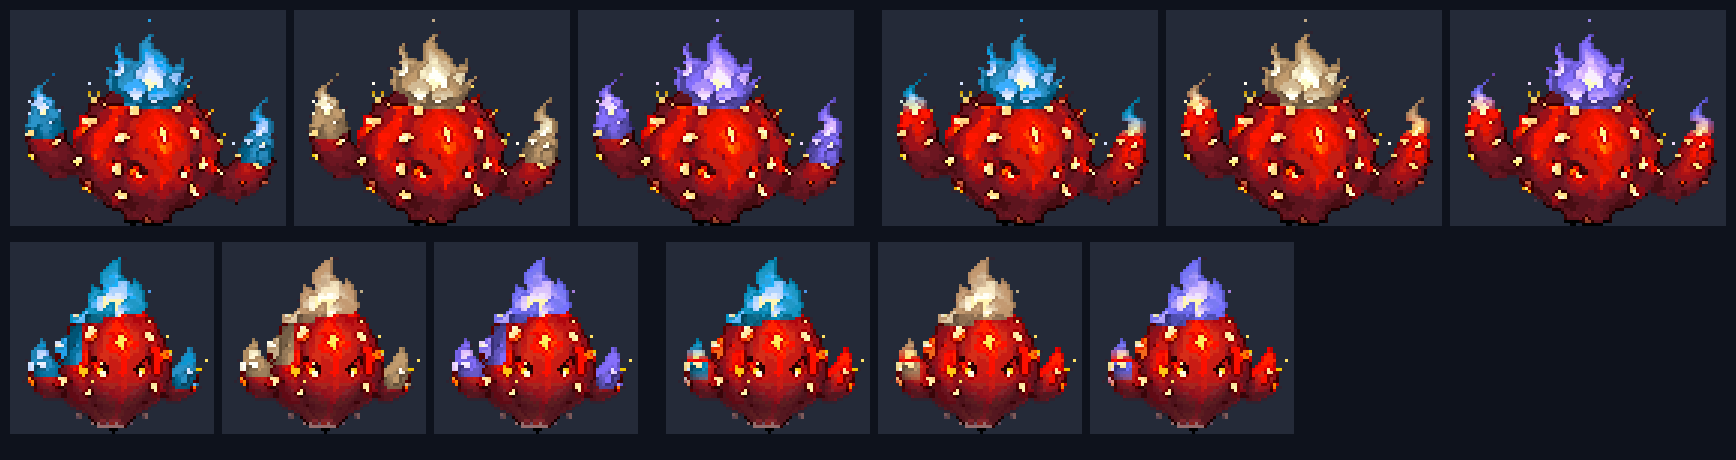
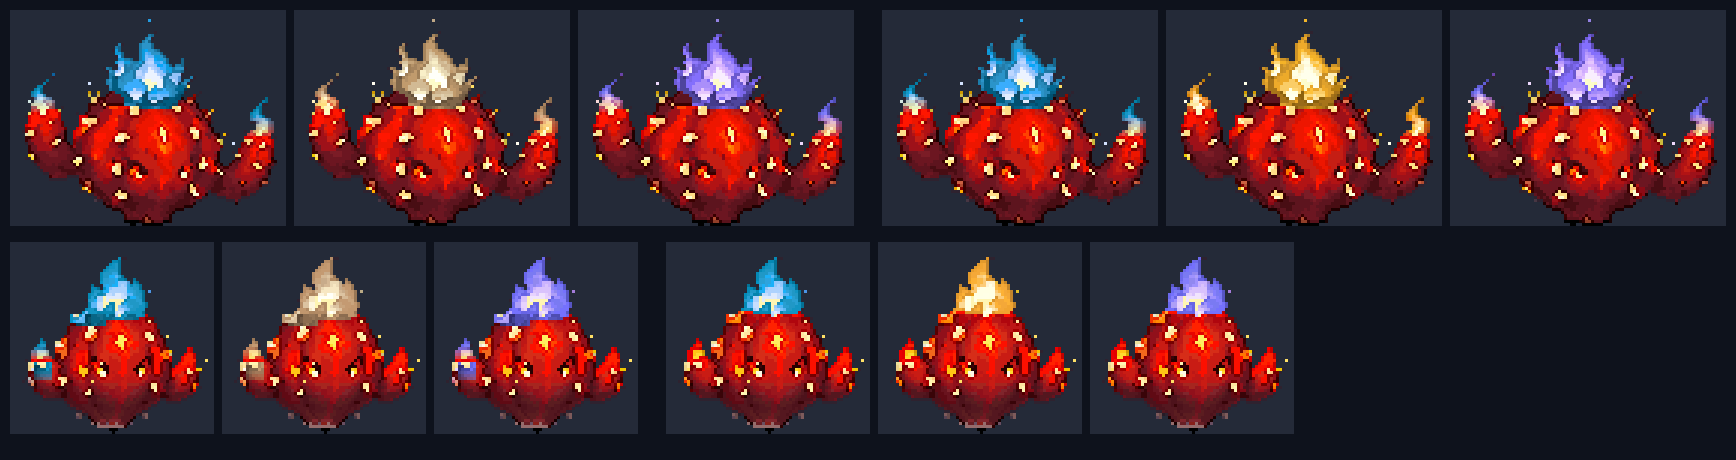
fix: 엠버캑터 색 변종 — 자람 왼팔 · 머리 꼭대기는 그대로, B 갈색 불 → 노란 불
- 자람: 팔 끝 불꽃 띠 뺌, 머리 불꽃은 가운데 속불 조각만 · 밝은 빨강으로만 넓힘(머리 왼쪽 위 주황 빛이 불꽃으로 잡히던 것)
- B: 노란 불(색상 92 · 밝기 +0.15)

diff --git a/v2/src/art/shinyRules.js b/v2/src/art/shinyRules.js
@@ -8,7 +8,7 @@ export const SHINY_RULES = {
   flower_wind: { pick: 'A', A: [{ h: [275,340], to: 235 }], B: [{ h: [275,340], to: 350, ck: 0.55, dl: 0.08 }], C: [{ h: [275,340], to: 90, dl: 0.17 }] },
   spark: { pick: 'A', A: [{ h: [75,115], to: 255, ck: 0.45, l: [0.6,1.01] }], B: [{ h: [75,115], to: 350, ck: 0.9, l: [0.6,1.01] }], C: [{ h: [75,115], to: 48, l: [0.6,1.01] }] },
   vine_water: { pick: 'A', A: [{ h: [95,182], to: 88, hs: 0.3, dl: 0.04 }], B: [{ h: [95,182], to: 40, hs: 0.3 }], C: [{ h: [195,265], to: 250, ck: 0.2, dl: 0.15 }] },
-  cactus_fire: { pick: 'A', A: [{ h: [20,110], to: 250, l: [0.58,1.01], c: 0.08, hs: 0.4, part: {"at":[[0,0,1,0.38]],"min":0.12,"air":0.8,"grow":2,"up":3,"gh":[10,60],"gl":[0.3,1.01],"gc":0.12}, ck: 0.8 }, { h: [45,115], to: 250, l: [0.6,1.01], c: 0.1, hs: 0.4, part: {"at":[[0,0,0.18,1],[0.82,0,1,1]],"min":0.3,"up":6,"taper":0.4,"gh":[10,115],"gl":[0.3,1.01],"gc":0.12}, ck: 0.8 }, { h: [10,60], to: 250, l: [0.3,0.75], c: 0.12, hs: 0.4, part: {"at":[],"air":0.75}, ck: 0.8 }], B: [{ h: [20,110], to: 85, l: [0.58,1.01], c: 0.08, hs: 0.4, part: {"at":[[0,0,1,0.38]],"min":0.12,"air":0.8,"grow":2,"up":3,"gh":[10,60],"gl":[0.3,1.01],"gc":0.12}, ck: 0.3, dl: 0.08 }, { h: [45,115], to: 85, l: [0.6,1.01], c: 0.1, hs: 0.4, part: {"at":[[0,0,0.18,1],[0.82,0,1,1]],"min":0.3,"up":6,"taper":0.4,"gh":[10,115],"gl":[0.3,1.01],"gc":0.12}, ck: 0.3, dl: 0.08 }, { h: [10,60], to: 85, l: [0.3,0.75], c: 0.12, hs: 0.4, part: {"at":[],"air":0.75}, ck: 0.3, dl: 0.08 }], C: [{ h: [20,110], to: 300, l: [0.58,1.01], c: 0.08, hs: 0.4, part: {"at":[[0,0,1,0.38]],"min":0.12,"air":0.8,"grow":2,"up":3,"gh":[10,60],"gl":[0.3,1.01],"gc":0.12}, ck: 0.8 }, { h: [45,115], to: 300, l: [0.6,1.01], c: 0.1, hs: 0.4, part: {"at":[[0,0,0.18,1],[0.82,0,1,1]],"min":0.3,"up":6,"taper":0.4,"gh":[10,115],"gl":[0.3,1.01],"gc":0.12}, ck: 0.8 }, { h: [10,60], to: 300, l: [0.3,0.75], c: 0.12, hs: 0.4, part: {"at":[],"air":0.75}, ck: 0.8 }], young: { A: [{ h: [45,115], to: 250, l: [0.6,1.01], c: 0.1, hs: 0.4, part: {"at":[[0,0,1,0.45]],"min":0.15,"up":6,"taper":0.65,"gh":[10,115],"gl":[0.3,1.01],"gc":0.12}, ck: 0.8 }, { h: [10,60], to: 250, l: [0.3,0.75], c: 0.12, hs: 0.4, part: {"at":[],"air":0.75}, ck: 0.8 }], B: [{ h: [45,115], to: 85, l: [0.6,1.01], c: 0.1, hs: 0.4, part: {"at":[[0,0,1,0.45]],"min":0.15,"up":6,"taper":0.65,"gh":[10,115],"gl":[0.3,1.01],"gc":0.12}, ck: 0.3, dl: 0.08 }, { h: [10,60], to: 85, l: [0.3,0.75], c: 0.12, hs: 0.4, part: {"at":[],"air":0.75}, ck: 0.3, dl: 0.08 }], C: [{ h: [45,115], to: 300, l: [0.6,1.01], c: 0.1, hs: 0.4, part: {"at":[[0,0,1,0.45]],"min":0.15,"up":6,"taper":0.65,"gh":[10,115],"gl":[0.3,1.01],"gc":0.12}, ck: 0.8 }, { h: [10,60], to: 300, l: [0.3,0.75], c: 0.12, hs: 0.4, part: {"at":[],"air":0.75}, ck: 0.8 }] }, teen: { A: [{ h: [45,115], to: 250, l: [0.6,1.01], c: 0.1, hs: 0.4, part: {"at":[[0,0,1,0.4]],"min":0.15,"grow":1,"up":6,"gh":[10,115],"gl":[0.3,1.01],"gc":0.12,"fill":[[35,115,0.6,1.01,0.1]]}, ck: 0.8 }, { h: [45,115], to: 250, l: [0.6,1.01], c: 0.1, hs: 0.4, part: {"at":[[0,0,0.15,1],[0.85,0,1,1]],"min":0.3,"up":6,"taper":0.4,"gh":[10,115],"gl":[0.3,1.01],"gc":0.12}, ck: 0.8 }, { h: [10,60], to: 250, l: [0.3,0.75], c: 0.12, hs: 0.4, part: {"at":[],"air":0.75}, ck: 0.8 }], B: [{ h: [45,115], to: 85, l: [0.6,1.01], c: 0.1, hs: 0.4, part: {"at":[[0,0,1,0.4]],"min":0.15,"grow":1,"up":6,"gh":[10,115],"gl":[0.3,1.01],"gc":0.12,"fill":[[35,115,0.6,1.01,0.1]]}, ck: 0.3, dl: 0.08 }, { h: [45,115], to: 85, l: [0.6,1.01], c: 0.1, hs: 0.4, part: {"at":[[0,0,0.15,1],[0.85,0,1,1]],"min":0.3,"up":6,"taper":0.4,"gh":[10,115],"gl":[0.3,1.01],"gc":0.12}, ck: 0.3, dl: 0.08 }, { h: [10,60], to: 85, l: [0.3,0.75], c: 0.12, hs: 0.4, part: {"at":[],"air":0.75}, ck: 0.3, dl: 0.08 }], C: [{ h: [45,115], to: 300, l: [0.6,1.01], c: 0.1, hs: 0.4, part: {"at":[[0,0,1,0.4]],"min":0.15,"grow":1,"up":6,"gh":[10,115],"gl":[0.3,1.01],"gc":0.12,"fill":[[35,115,0.6,1.01,0.1]]}, ck: 0.8 }, { h: [45,115], to: 300, l: [0.6,1.01], c: 0.1, hs: 0.4, part: {"at":[[0,0,0.15,1],[0.85,0,1,1]],"min":0.3,"up":6,"taper":0.4,"gh":[10,115],"gl":[0.3,1.01],"gc":0.12}, ck: 0.8 }, { h: [10,60], to: 300, l: [0.3,0.75], c: 0.12, hs: 0.4, part: {"at":[],"air":0.75}, ck: 0.8 }] }, small: { A: [{ h: [45,115], to: 250, l: [0.6,1.01], c: 0.1, hs: 0.4, part: {"at":[[0,0,1,0.36]],"min":0.3,"air":0.8,"up":3,"gh":[10,115],"gl":[0.3,1.01],"gc":0.12}, ck: 0.8 }, { h: [45,115], to: 250, l: [0.6,1.01], c: 0.1, hs: 0.4, part: {"at":[[0,0,0.18,1],[0.82,0,1,1]],"min":0.3,"up":6,"taper":0.4,"gh":[10,115],"gl":[0.3,1.01],"gc":0.12}, ck: 0.8 }, { h: [10,60], to: 250, l: [0.3,0.75], c: 0.12, hs: 0.4, part: {"at":[],"air":0.75}, ck: 0.8 }], B: [{ h: [45,115], to: 85, l: [0.6,1.01], c: 0.1, hs: 0.4, part: {"at":[[0,0,1,0.36]],"min":0.3,"air":0.8,"up":3,"gh":[10,115],"gl":[0.3,1.01],"gc":0.12}, ck: 0.3, dl: 0.08 }, { h: [45,115], to: 85, l: [0.6,1.01], c: 0.1, hs: 0.4, part: {"at":[[0,0,0.18,1],[0.82,0,1,1]],"min":0.3,"up":6,"taper":0.4,"gh":[10,115],"gl":[0.3,1.01],"gc":0.12}, ck: 0.3, dl: 0.08 }, { h: [10,60], to: 85, l: [0.3,0.75], c: 0.12, hs: 0.4, part: {"at":[],"air":0.75}, ck: 0.3, dl: 0.08 }], C: [{ h: [45,115], to: 300, l: [0.6,1.01], c: 0.1, hs: 0.4, part: {"at":[[0,0,1,0.36]],"min":0.3,"air":0.8,"up":3,"gh":[10,115],"gl":[0.3,1.01],"gc":0.12}, ck: 0.8 }, { h: [45,115], to: 300, l: [0.6,1.01], c: 0.1, hs: 0.4, part: {"at":[[0,0,0.18,1],[0.82,0,1,1]],"min":0.3,"up":6,"taper":0.4,"gh":[10,115],"gl":[0.3,1.01],"gc":0.12}, ck: 0.8 }, { h: [10,60], to: 300, l: [0.3,0.75], c: 0.12, hs: 0.4, part: {"at":[],"air":0.75}, ck: 0.8 }] } },   // 특징 5~45° 85% · 손 규칙 A B C young teen small
+  cactus_fire: { pick: 'A', A: [{ h: [20,110], to: 250, l: [0.58,1.01], c: 0.08, hs: 0.4, part: {"at":[[0,0,1,0.38]],"min":0.12,"air":0.8,"grow":2,"up":3,"gh":[10,60],"gl":[0.3,1.01],"gc":0.12}, ck: 0.8 }, { h: [45,115], to: 250, l: [0.6,1.01], c: 0.1, hs: 0.4, part: {"at":[[0,0,0.18,1],[0.82,0,1,1]],"min":0.3,"up":6,"taper":0.4,"gh":[10,115],"gl":[0.3,1.01],"gc":0.12}, ck: 0.8 }, { h: [10,60], to: 250, l: [0.3,0.75], c: 0.12, hs: 0.4, part: {"at":[],"air":0.75}, ck: 0.8 }], B: [{ h: [20,110], to: 92, l: [0.58,1.01], c: 0.08, hs: 0.4, part: {"at":[[0,0,1,0.38]],"min":0.12,"air":0.8,"grow":2,"up":3,"gh":[10,60],"gl":[0.3,1.01],"gc":0.12}, ck: 1, dl: 0.15 }, { h: [45,115], to: 92, l: [0.6,1.01], c: 0.1, hs: 0.4, part: {"at":[[0,0,0.18,1],[0.82,0,1,1]],"min":0.3,"up":6,"taper":0.4,"gh":[10,115],"gl":[0.3,1.01],"gc":0.12}, ck: 1, dl: 0.15 }, { h: [10,60], to: 92, l: [0.3,0.75], c: 0.12, hs: 0.4, part: {"at":[],"air":0.75}, ck: 1, dl: 0.15 }], C: [{ h: [20,110], to: 300, l: [0.58,1.01], c: 0.08, hs: 0.4, part: {"at":[[0,0,1,0.38]],"min":0.12,"air":0.8,"grow":2,"up":3,"gh":[10,60],"gl":[0.3,1.01],"gc":0.12}, ck: 0.8 }, { h: [45,115], to: 300, l: [0.6,1.01], c: 0.1, hs: 0.4, part: {"at":[[0,0,0.18,1],[0.82,0,1,1]],"min":0.3,"up":6,"taper":0.4,"gh":[10,115],"gl":[0.3,1.01],"gc":0.12}, ck: 0.8 }, { h: [10,60], to: 300, l: [0.3,0.75], c: 0.12, hs: 0.4, part: {"at":[],"air":0.75}, ck: 0.8 }], young: { A: [{ h: [45,115], to: 250, l: [0.6,1.01], c: 0.1, hs: 0.4, part: {"at":[[0,0,1,0.45]],"min":0.15,"up":6,"taper":0.65,"gh":[10,115],"gl":[0.3,1.01],"gc":0.12}, ck: 0.8 }, { h: [10,60], to: 250, l: [0.3,0.75], c: 0.12, hs: 0.4, part: {"at":[],"air":0.75}, ck: 0.8 }], B: [{ h: [45,115], to: 92, l: [0.6,1.01], c: 0.1, hs: 0.4, part: {"at":[[0,0,1,0.45]],"min":0.15,"up":6,"taper":0.65,"gh":[10,115],"gl":[0.3,1.01],"gc":0.12}, ck: 1, dl: 0.15 }, { h: [10,60], to: 92, l: [0.3,0.75], c: 0.12, hs: 0.4, part: {"at":[],"air":0.75}, ck: 1, dl: 0.15 }], C: [{ h: [45,115], to: 300, l: [0.6,1.01], c: 0.1, hs: 0.4, part: {"at":[[0,0,1,0.45]],"min":0.15,"up":6,"taper":0.65,"gh":[10,115],"gl":[0.3,1.01],"gc":0.12}, ck: 0.8 }, { h: [10,60], to: 300, l: [0.3,0.75], c: 0.12, hs: 0.4, part: {"at":[],"air":0.75}, ck: 0.8 }] }, teen: { A: [{ h: [45,115], to: 250, l: [0.6,1.01], c: 0.1, hs: 0.4, part: {"at":[[0.38,0,0.66,0.33]],"up":6,"g":[[20,45,0.5,1.01,0.18]],"fill":[[35,115,0.6,1.01,0.1]]}, ck: 0.8 }, { h: [10,60], to: 250, l: [0.3,0.75], c: 0.12, hs: 0.4, part: {"at":[],"air":0.75}, ck: 0.8 }], B: [{ h: [45,115], to: 92, l: [0.6,1.01], c: 0.1, hs: 0.4, part: {"at":[[0.38,0,0.66,0.33]],"up":6,"g":[[20,45,0.5,1.01,0.18]],"fill":[[35,115,0.6,1.01,0.1]]}, ck: 1, dl: 0.15 }, { h: [10,60], to: 92, l: [0.3,0.75], c: 0.12, hs: 0.4, part: {"at":[],"air":0.75}, ck: 1, dl: 0.15 }], C: [{ h: [45,115], to: 300, l: [0.6,1.01], c: 0.1, hs: 0.4, part: {"at":[[0.38,0,0.66,0.33]],"up":6,"g":[[20,45,0.5,1.01,0.18]],"fill":[[35,115,0.6,1.01,0.1]]}, ck: 0.8 }, { h: [10,60], to: 300, l: [0.3,0.75], c: 0.12, hs: 0.4, part: {"at":[],"air":0.75}, ck: 0.8 }] }, small: { A: [{ h: [45,115], to: 250, l: [0.6,1.01], c: 0.1, hs: 0.4, part: {"at":[[0,0,1,0.36]],"min":0.3,"air":0.8,"up":3,"gh":[10,115],"gl":[0.3,1.01],"gc":0.12}, ck: 0.8 }, { h: [45,115], to: 250, l: [0.6,1.01], c: 0.1, hs: 0.4, part: {"at":[[0,0,0.18,1],[0.82,0,1,1]],"min":0.3,"up":6,"taper":0.4,"gh":[10,115],"gl":[0.3,1.01],"gc":0.12}, ck: 0.8 }, { h: [10,60], to: 250, l: [0.3,0.75], c: 0.12, hs: 0.4, part: {"at":[],"air":0.75}, ck: 0.8 }], B: [{ h: [45,115], to: 92, l: [0.6,1.01], c: 0.1, hs: 0.4, part: {"at":[[0,0,1,0.36]],"min":0.3,"air":0.8,"up":3,"gh":[10,115],"gl":[0.3,1.01],"gc":0.12}, ck: 1, dl: 0.15 }, { h: [45,115], to: 92, l: [0.6,1.01], c: 0.1, hs: 0.4, part: {"at":[[0,0,0.18,1],[0.82,0,1,1]],"min":0.3,"up":6,"taper":0.4,"gh":[10,115],"gl":[0.3,1.01],"gc":0.12}, ck: 1, dl: 0.15 }, { h: [10,60], to: 92, l: [0.3,0.75], c: 0.12, hs: 0.4, part: {"at":[],"air":0.75}, ck: 1, dl: 0.15 }], C: [{ h: [45,115], to: 300, l: [0.6,1.01], c: 0.1, hs: 0.4, part: {"at":[[0,0,1,0.36]],"min":0.3,"air":0.8,"up":3,"gh":[10,115],"gl":[0.3,1.01],"gc":0.12}, ck: 0.8 }, { h: [45,115], to: 300, l: [0.6,1.01], c: 0.1, hs: 0.4, part: {"at":[[0,0,0.18,1],[0.82,0,1,1]],"min":0.3,"up":6,"taper":0.4,"gh":[10,115],"gl":[0.3,1.01],"gc":0.12}, ck: 0.8 }, { h: [10,60], to: 300, l: [0.3,0.75], c: 0.12, hs: 0.4, part: {"at":[],"air":0.75}, ck: 0.8 }] } },   // 특징 5~45° 85% · 손 규칙 A B C young teen small
   gaia: { pick: 'A', A: [{ h: [160,220], to: 300, c: 0.04 }], B: [{ h: [160,220], to: 355, c: 0.04 }], C: [{ h: [160,220], to: 88, c: 0.04, dl: 0.12 }] },
   flower_fire: { pick: 'A', A: [{ h: [5,45], to: 262 }], B: [{ h: [5,45], to: 305 }], C: [{ h: [5,45], to: 92, dl: 0.17 }] },
   cactus_wind: { pick: 'B', A: [{ h: [70,175], to: 168, hs: 0.4, l: [0.24,0.9], ck: 0.7 }], B: [{ h: [70,175], to: 88, hs: 0.4, l: [0.24,0.9], dl: 0.06 }], C: [{ h: [70,175], to: 330, hs: 0.4, l: [0.24,0.9], ck: 0.55 }] },

diff --git a/docs/superpowers/specs/2026-10-16-v2-mvp-design.md b/docs/superpowers/specs/2026-10-16-v2-mvp-design.md
@@ -10,7 +10,7 @@
 - **10-22 아침:** 사용자 결정 = 카드는 끼운 식물에 귀속(CHANGELOG 191 — 가져오기 뺌, 일반 식물도 패시브 보관 셋, 보관에서 버리기 = 팔 값). 사용자 ‘올릴 때 버그나 데이터 손실이 없도록’ → 올리기 전 안전 점검(192 — `tools/test/prodcheck.mjs`로 친구 서버 저장 백업 + 새 코드로 계정마다 미리 돌려 보기 = 문제 없음, `SAVE_VER` 2로 올린 뒤 원본 자동 보관, 되돌리기 판 `f4b9fc9b`). **사용자 ‘안전 점검대로 친구 서버에 올려’ → 올림(CHANGELOG 193, 판 `4c2dabdd`).**
 - **10-22 올린 뒤(오후에 함께 올림 — CHANGELOG 201):** 바람 다시(CHANGELOG 194 초승달 줄기 · 195 언덕 타기 + 롤러코스터 고리 — 사용자 ‘너무 일자로 빙빙돌아’ → ‘좀더 꿀렁하게 웨이브를 타는 느낌 · 롤로코스터처럼 한바퀴’) · 배너 = 프로필 홀로그램 창 디자인 열둘(196 — 사용자 정정 ‘아이콘의 테두리가 아니야. 홀로그램창의 디자인을 배너라고 말한거야’, 188의 색 띠 · 아이콘 테 방식은 버림) · 종자 가방 = 카드 · 정렬(197). 시험 전부 통과.
 - **10-22 낮(오후에 함께 올림):** 종자 · 상점 물건 그림 = 코덱스 디자인(종자는 식물마다 다른 마흔다섯 · 속성 대신 그림 일곱 · 물건 아홉) · 별에 따른 종자 차이(빛 효과 + 값 별 하나 +25%) · 종자 가방 = 단추 없는 카드 · 누르면 펼침 · 꾹 고르기 여러 개 팔기(`sellSeeds`) · 특별 표시는 그림을 가리지 않게(CHANGELOG 198). 사용자가 ‘그 외 대충 그린 아이콘 중 바꿀 것 추천’ 요청 → 추천 일곱 묶음 → ‘전부해봐’ → 하단 탭 · 홈 단추 · 돈 · 보석 · 속성 · 종류 · 능력치 · 전투 상태 열여덟 · 레벨업 상자(뚜껑이 들리는 코덱스 상자) · 탐사 행성 열하나 + 물건 그림 재활용(물 · 비료 단추 · 결과 보상 · 연료 · 카드 꾸러미)을 코덱스 디자인 도트로(CHANGELOG 199 — 11칸으로 줄이면 뭉개지는 여섯은 1배 자리만 손그림 유지). 이어서 사용자 ‘아이콘 비슷한게 있는데 … 엑셀로 작업중인 변경될 예정인걸 기준으로’ → 효과 아이콘을 엑셀 v10 효과 하나에 하나로 다시(CHANGELOG 200 · 짝 표 `specs/2026-10-22-v2-effect-icons.md` — 능력치 강화 · 약화 = 능력치 아이콘 + 화살표, 이름은 엑셀 적용 때 바꿈).
-- **10-22 늦은 오후(아직 안 올림):** 사용자 ‘다음 작업 뭐 있을까 스킬 구상 말고’ → 남은 일 목록(색 변종 · 3:3 햇빛 · 접목 카드 · 눈 다시 · 얼굴 사진 · 영양제 · 공지 팝업 · 순위표 등)을 드림 → ‘색 변종 그림부터’ → 몸 색이 진짜로 바뀜(CHANGELOG 202 — 종마다 후보 A · B · C, 클로드 추천을 넣어 둠). 사용자가 검토판(`tools/pixel/big/out/shiny/board_1~5.png`)에서 종마다 고르면 `tools/pixel/big/shiny.mjs PICK`만 바꿈. 확률(1/64 → 1/500쯤)은 확인 전. 이어서 사용자 ‘페탈로즈 c의 풀색이 너무 징그러워 · 자연스러운 부분에 자연스럽게 · 쨍하게 전체색이 바뀐게 어색해’ → 잎은 자연에 있는 색만 · 꽃 · 갓 · 옷처럼 자연스러운 부분 위주 · 채도 낮춤으로 다시(CHANGELOG 203). 다시 열한 종 지적(‘몸 전체를 덮거나 · 너무 쨍하거나 · 색이 안 어울리는’) → 한 부분만(불꽃 · 결정 · 입 · 배 · 탈 · 깃 · 투구 · 갑옷 · 갓 · 목도리) + 위치 조건 box · 초롱바인 원래 그림 등불을 빨강이 위로(CHANGELOG 204 — 다시 내보내면 `fix_lantern.mjs`). 다시 다섯 종 지적(엠버캑터 불 테두리 · 불 안쪽 일자 잘림 · 드레이크캑터 가시까지 바뀜 · 초롱바인 달라진 게 안 보임 · 등불 파랑 아래 일자 잘림 · 글라디캑터 깃 바깥 테두리 · 마이너캡 갓 그늘 · 얼굴까지) → 네모 대신 이어진 덩어리로 고르기(`part`) · 단계별 규칙(어린 · 자람 · 작은 그림) · 초롱바인 덩굴 색 바꿈 · 등불은 천 덩어리째 맞바꿈(CHANGELOG 205, 술은 사용자 ‘괜찮네’로 그대로). 이어서 ‘앰버캑터 성장체+성체의 팔 부분도 염색 … 불만 염색하거나 아니면 아예 빼’ → 팔은 그대로 · 팔 끝 불꽃만(CHANGELOG 206). **사용자 검토 대기:** 다섯 종 전 · 뒤 `tools/pixel/big/out/shiny/fix5_before_after.png` · 엠버캑터 팔 전 · 뒤 `fix_ember_arms.png` · 어린 · 자람 `fix5_stages.png`.
+- **10-22 늦은 오후(아직 안 올림):** 사용자 ‘다음 작업 뭐 있을까 스킬 구상 말고’ → 남은 일 목록(색 변종 · 3:3 햇빛 · 접목 카드 · 눈 다시 · 얼굴 사진 · 영양제 · 공지 팝업 · 순위표 등)을 드림 → ‘색 변종 그림부터’ → 몸 색이 진짜로 바뀜(CHANGELOG 202 — 종마다 후보 A · B · C, 클로드 추천을 넣어 둠). 사용자가 검토판(`tools/pixel/big/out/shiny/board_1~5.png`)에서 종마다 고르면 `tools/pixel/big/shiny.mjs PICK`만 바꿈. 확률(1/64 → 1/500쯤)은 확인 전. 이어서 사용자 ‘페탈로즈 c의 풀색이 너무 징그러워 · 자연스러운 부분에 자연스럽게 · 쨍하게 전체색이 바뀐게 어색해’ → 잎은 자연에 있는 색만 · 꽃 · 갓 · 옷처럼 자연스러운 부분 위주 · 채도 낮춤으로 다시(CHANGELOG 203). 다시 열한 종 지적(‘몸 전체를 덮거나 · 너무 쨍하거나 · 색이 안 어울리는’) → 한 부분만(불꽃 · 결정 · 입 · 배 · 탈 · 깃 · 투구 · 갑옷 · 갓 · 목도리) + 위치 조건 box · 초롱바인 원래 그림 등불을 빨강이 위로(CHANGELOG 204 — 다시 내보내면 `fix_lantern.mjs`). 다시 다섯 종 지적(엠버캑터 불 테두리 · 불 안쪽 일자 잘림 · 드레이크캑터 가시까지 바뀜 · 초롱바인 달라진 게 안 보임 · 등불 파랑 아래 일자 잘림 · 글라디캑터 깃 바깥 테두리 · 마이너캡 갓 그늘 · 얼굴까지) → 네모 대신 이어진 덩어리로 고르기(`part`) · 단계별 규칙(어린 · 자람 · 작은 그림) · 초롱바인 덩굴 색 바꿈 · 등불은 천 덩어리째 맞바꿈(CHANGELOG 205, 술은 사용자 ‘괜찮네’로 그대로). 이어서 ‘앰버캑터 성장체+성체의 팔 부분도 염색 … 불만 염색하거나 아니면 아예 빼’ → 팔은 그대로 · 팔 끝 불꽃만(CHANGELOG 206) · 자람 왼팔 네모 자국 · 머리 꼭대기 번짐 고침 + B 갈색 불 → 노란 불(207). **사용자 검토 대기:** 다섯 종 전 · 뒤 `tools/pixel/big/out/shiny/fix5_before_after.png` · 엠버캑터 팔 전 · 뒤 `fix_ember_arms.png` · 어린 · 자람 `fix5_stages.png`.
 - **다음:** 10-22 오후 사용자 ‘ㄱㄱ’로 위 묶음(194~200)을 친구 서버에 올림(CHANGELOG 201 — 판 `36180eb2` · 되돌리기 `4c2dabdd` · 저장 판 번호 3). 그다음 친구들이 새 판으로 놀아 본 반응 · 플레이 기록(`node server/report.mjs --url https://pulloseum.getchat.workers.dev`)으로 랭크 속도 · 카드 귀속 · 경제를 확인 → 아래 이전 맥락의 종 핑퐁(프로스트벨 초안 검토 → 14번 볼트바인).
 - **미결(검토):** 변이 패시브도 강화할지 · 랭크 속도(어림 풀로세움까지 350판) · 배너 열둘의 해금 레벨(오로라 3 · 별빛 5 · 성운 8 · 잎맥 10 · 물결 15 · 회로 20 · 황금 25 · 풀로세움 30) · 바람 모양(검토 영상 `tools/pixel/big/out/conv/<키>_idle.mp4`).
 

diff --git a/docs/CHANGELOG.md b/docs/CHANGELOG.md
@@ -2,6 +2,13 @@
 
 > CLAUDE.md에서 분리한 전체 개발 로그. 최신 작업이 맨 위. 과거 맥락이 필요할 때만 읽으세요.
 
+### 2026-10-22 (207) — 엠버캑터 색 변종: 자람 왼팔 · 머리 꼭대기는 그대로 · B 갈색 불 → 노란 불
+
+- 사용자 ‘왼쪽 팔 부분에 불자국이 네모낳게 남아있어. 여기 없어야해(성장체), 그리고 성장체 머리의 불 부분의 아래 왼쪽에 조금 더 불이 나와있어. 여기는 불이 아니라 머리야’ · ‘그리고 갈색불 > 노란불로 바꿔줘’.
+- **자람:** 팔 끝 불꽃 띠를 뺌(왼팔의 노란 점이 네모 자국으로 바뀌었음). 머리 불꽃은 노란 속불 조각 중 가운데 자리(무게중심 가로 38~66% · 위 33%)만 — 머리 왼쪽 위 주황 빛(무게중심이 바깥 · 아래)이 불꽃으로 잡혀 머리 꼭대기 어두운 빨강까지 번졌던 것. 넓힘도 밝은 빨강(밝기 0.5 · 채도 0.18 위)으로만, 아래로는 안 넓힘. 68장 모두 확인.
+- **B = 노란 불**(색상 92° · 채도 그대로 · 밝기 +0.15 — 옛 ‘하얗게 단 불’은 채도를 낮춰 갈색으로 보였음). 성체 · 자람 · 어린 · 작은 그림 모두.
+- 검토판 `tools/pixel/big/out/shiny/fix_ember_arms.png`(줄 = 성체 · 자람, 왼쪽 셋 = 206판 · 오른쪽 셋 = 지금, A · B · C) · `board_1.png` · `fix5_adult.png` · `fix5_stages.png` 다시 · 나머지 44종 그대로 · 시험 23 통과.
+
 ### 2026-10-22 (206) — 엠버캑터 색 변종: 팔은 그대로 · 팔 끝 불꽃만(성체 · 자람 · 작은 그림)
 
 - 사용자 ‘앰버캑터 성장체+성체의 팔 부분도 염색되어 있어. 불만 염색하거나 아니면 아예 빼’ → 불만 염색으로.
